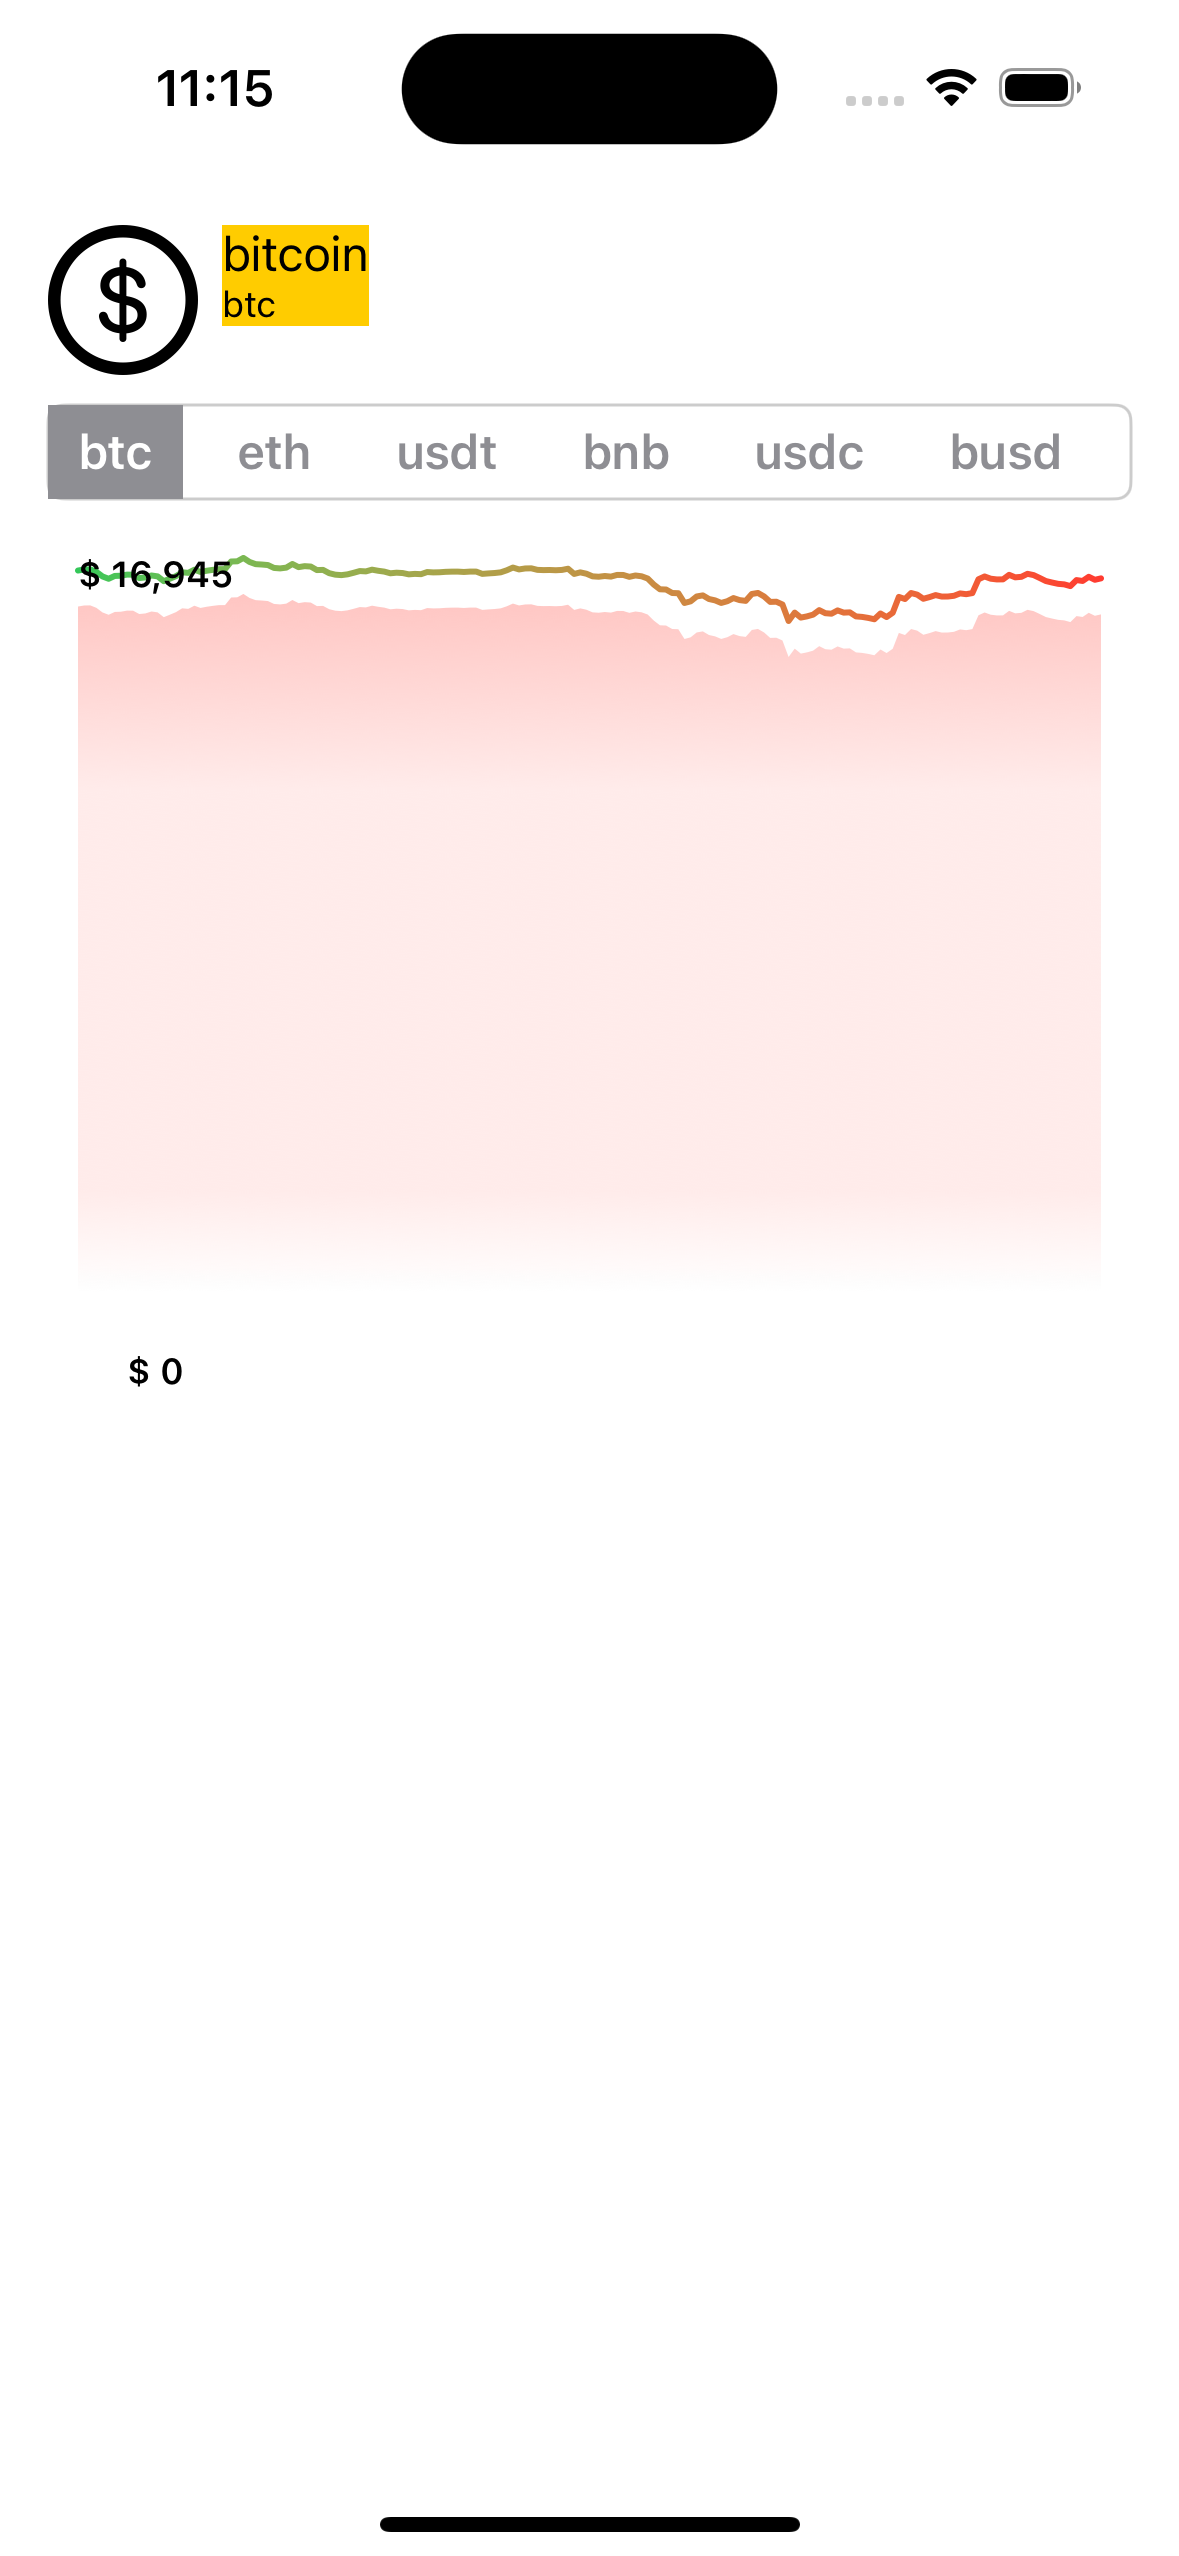
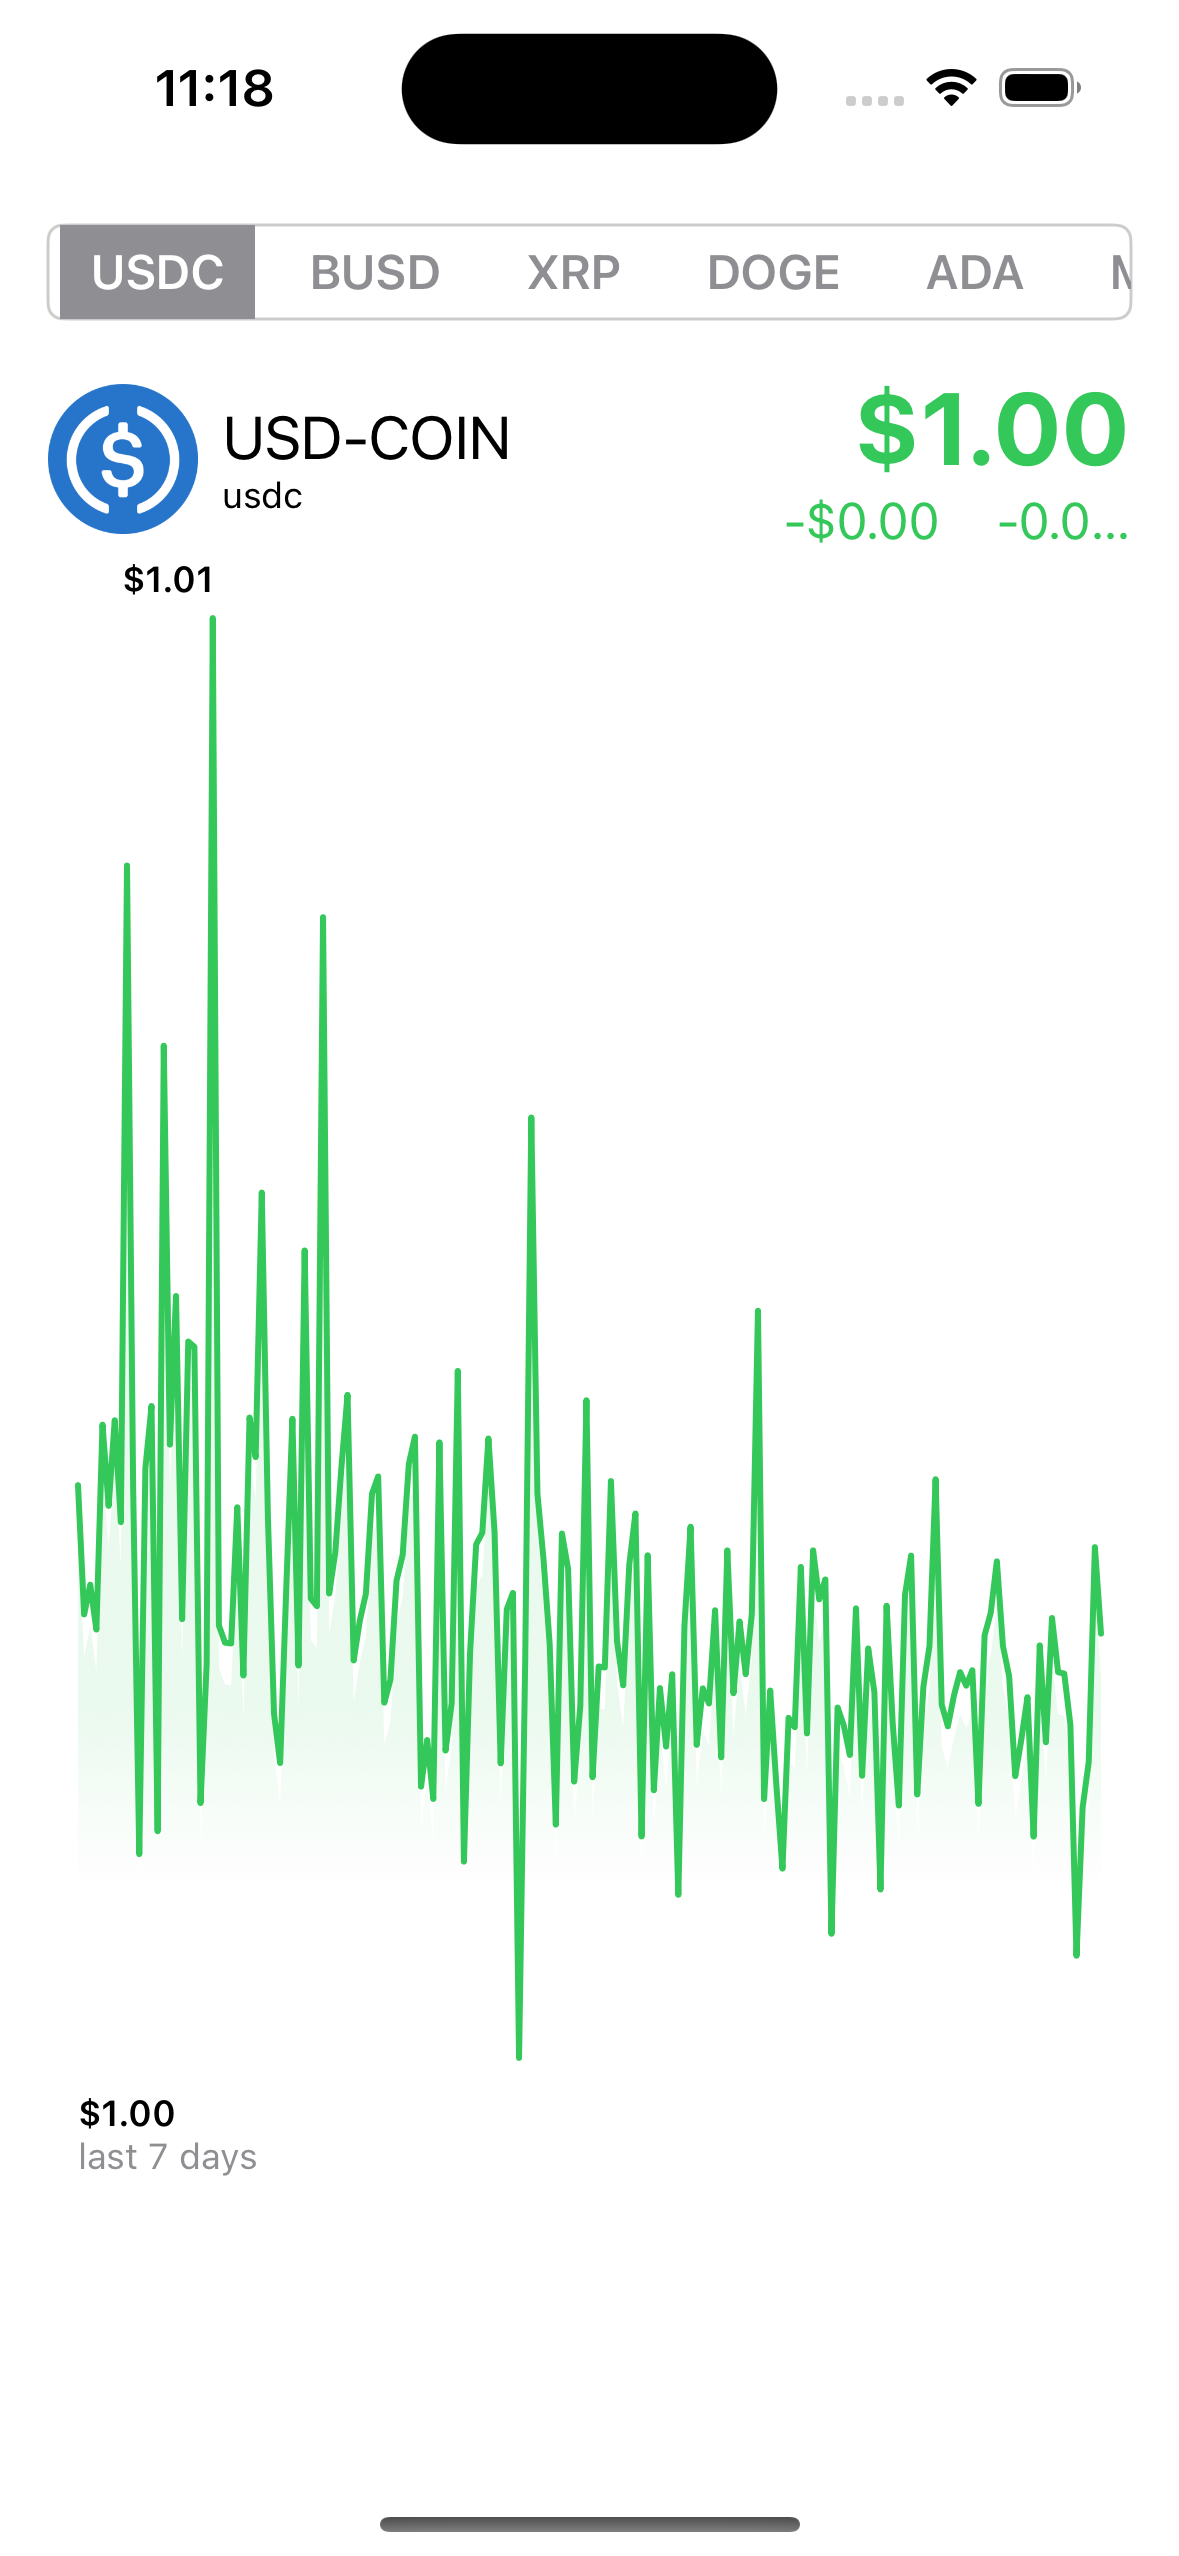
動畫完成 顏色根據帳跌改變(紅綠) 程式碼重構

diff --git a/LineGraph/LineGraph.swift b/LineGraph/LineGraph.swift
@@ -10,10 +10,12 @@ import SwiftUI
 struct LineGraph: View {
     // MARK: 定義狀態變數
 
-    var data: [Double]
-    @State private var currentPlot = ""
-    @State private var shouldShowPlot = false
-    @State private var offset: CGSize = .zero
+    var data: [Double] // 價位資料
+    var profit: Bool // 漲跌狀況，決定紅色或綠色
+    @State private var currentPlot = "" // 目前選中的價位
+    @State private var shouldShowPlot = false // 是否顯示細節指示器
+    @State private var offset: CGSize = .zero // 細節指示器的位置
+    @State private var graphProgress: CGFloat = 0 // 線段動畫進度
 
     var body: some View {
         GeometryReader { proxy in
@@ -29,6 +31,7 @@ struct LineGraph: View {
             let segmentHeight = size.height
             let maxValue = (data.max() ?? 0)
             let minValue = (data.min() ?? 0)
+            // 將資料轉換為CGPoint
             let points: [CGPoint] = data.enumerated().compactMap { item in
                 let x = segmentWidth * CGFloat(item.offset)
                 let y = segmentHeight * ((item.element - minValue) / (maxValue - minValue))
@@ -38,14 +41,14 @@ struct LineGraph: View {
             // MARK: 定義資料線段與背景
 
             ZStack {
-                Path { path in
-//                    path.move(to: CGPoint.zero)
-                    path.addLines(points)
-                }
-                .strokedPath(.init(lineWidth: 2, lineCap: .round, lineJoin: .round))
-                .fill(LinearGradient(colors: [.green, .red], startPoint: .leading, endPoint: .trailing))
+                // 漸層線段
+                AnimatedGraphPath(progress: graphProgress, points: points)
+                    .fill(profit ? .red : .green)
+                // .fill(LinearGradient(colors: [.green, .red], startPoint: .leading, endPoint: .trailing))
 
+                // 先畫出整個漸層，再根據線段裁剪顯示範圍
                 fillBG()
+                    .opacity(graphProgress)
                     .clipShape(
                         Path { path in
                             path.addLines(points)
@@ -53,44 +56,19 @@ struct LineGraph: View {
                             path.addLine(to: CGPoint(x: 0, y: size.height))
                         }
                     )
-                    .padding(.top, 12)
+                    .padding(.top, 14)
             }
 
-            // MARK: 定義浮動指示器，跟隨手指移動
-
-            // **關鍵** overlay的對齊設定要設為對齊左側&底部
-            // 因為overlay的尺寸跟上層(zstack)相同，如果不額外指定對齊，預設會是置中，這樣後續套用offset會用偏移
+            // 在線段上方放置一個浮動細節指示器，隨著手指點擊拖曳移動
+            // 對齊要設為左側&底部，因為overlay的尺寸跟上層(zstack)相同
+            // 如果不額外指定對齊，預設會是置中，這樣後續套用offset會用偏移
             .overlay(alignment: .bottomLeading) {
-                VStack(spacing: 0) {
-                    Text(currentPlot)
-                        .font(.caption.bold())
-                        .foregroundColor(.white)
-                        .padding(.horizontal, 6)
-                        .padding(.vertical, 4)
-                        .background(.gray, in: Capsule())
-                        // 如果滑鼠靠近螢幕邊緣，要將文字往畫面中間移動，否則會被切掉
-                        .offset(x: offset.width < 10 ? 20 : 0)
-                        .offset(x: offset.width > size.width - 10 ? -20 : 0)
-
-                    Rectangle()
-                        .fill(.gray)
-                        .frame(width: 1, height: 45)
-
-                    Circle()
-                        .fill(.gray)
-                        .frame(width: 16)
-                        .overlay {
-                            Circle()
-                                .fill(.white)
-                                .frame(width: 6)
-                        }
-                }
-                // 給予指示器一個固定尺寸，方便後續計算偏移量時，x軸置中，y軸對齊circle中心
-                .frame(width: 80, height: 80)
-                .opacity(shouldShowPlot ? 1 : 0)
-                .offset(offset)
-                // 讓指示器x軸置中(扣掉一半寬度 80/2=40)，y軸對齊circle中心(加上circle一半寬度 16/2=8)
-                .offset(x: -40, y: 8)
+                indicatorView()
+                    // 是否顯示指示器
+                    .opacity(shouldShowPlot ? 1 : 0)
+                    // 如果滑鼠靠近螢幕邊緣，要將文字往畫面中間移動，否則會被切掉
+                    .offset(x: offset.width < 10 ? 20 : 0)
+                    .offset(x: offset.width > size.width - 10 ? -20 : 0)
             }
             // 定義手勢感應區域
             .contentShape(Rectangle())
@@ -104,7 +82,7 @@ struct LineGraph: View {
                     var index = Int((tx / segmentWidth).rounded())
                     index = max(min(index, points.count - 1), 0)
                     // 更新顯示的文字
-                    currentPlot = "$ \(data[index])"
+                    currentPlot = data[index].convertToCurrency()
                     // 更新指示器的位置
                     withAnimation(.easeIn(duration: 0.1)) {
                         shouldShowPlot = true
@@ -115,31 +93,126 @@ struct LineGraph: View {
                     withAnimation {
                         shouldShowPlot = false
                     }
-                }
-            )
+                })
         }
-        // 顯示資料的最大&最小值
-        .overlay(content: {
-            VStack {
-                Text("$ \(Int(data.max() ?? 0))")
-                    .font(.caption.bold())
-                Spacer()
-                Text("$ \(Int(data.min() ?? 0))")
-                    .font(.caption.bold())
-            }
-            .frame(maxWidth: .infinity, alignment: .leading)
-        })
+        .overlay { labelView() }
         .padding(10)
+        .onAppear {
+            // 一進入畫面就開始繪製線段
+            DispatchQueue.main.asyncAfter(deadline: .now() + 0.1) {
+                withAnimation(.easeIn(duration: 1.2)) {
+                    graphProgress = 1
+                }
+            }
+        }
+        .onChange(of: data) { _ in
+            // 資料更新要重新畫出線段
+            // 但因為線段已經在畫面，就算data更新，progress也不會跟著更新，所以要先歸零，再重新開始動畫
+            graphProgress = 0
+            DispatchQueue.main.asyncAfter(deadline: .now() + 0.1) {
+                withAnimation(.easeIn(duration: 1.2)) {
+                    graphProgress = 1
+                }
+            }
+        }
     }
 
-    /// 繪製線段背景漸層
+    // 定義浮動細節指示器，跟隨手指移動
+    @ViewBuilder
+    func indicatorView() -> some View {
+        VStack(spacing: 0) {
+            // 顯示目前價位
+            Text(currentPlot)
+                .font(.caption.bold())
+                .foregroundColor(.white)
+                .padding(.horizontal, 6)
+                .padding(.vertical, 4)
+                .background(.gray, in: Capsule())
+
+            // 線段
+            Rectangle()
+                .fill(.gray)
+                .frame(width: 1, height: 45)
+
+            // 在線段上的原點
+            Circle()
+                .fill(.gray)
+                .frame(width: 16)
+                .overlay {
+                    Circle()
+                        .fill(.white)
+                        .frame(width: 6)
+                }
+        }
+        // 給予指示器一個固定尺寸，方便後續計算偏移量時，x軸置中，y軸對齊circle中心
+        .frame(width: 80, height: 80)
+
+        // 移動指示器到手指的位置
+        .offset(offset)
+        // 讓指示器x軸置中(扣掉一半寬度 80/2=40)，y軸對齊circle中心(加上circle一半寬度 16/2=8)
+        .offset(x: -40, y: 8)
+    }
+
+    // 顯示資料的最大&最小值
+    @ViewBuilder
+    func labelView() -> some View {
+        VStack {
+            let max = data.max() ?? 0
+            let min = data.min() ?? 0
+            // 最大值
+            Text(max.convertToCurrency())
+                .font(.caption.bold())
+                .offset(y: -20)
+
+            Spacer()
+
+            VStack(alignment: .leading) {
+                // 最小值
+                Text(min.convertToCurrency())
+                    .font(.caption.bold())
+                Text("last 7 days")
+                    .font(.caption)
+                    .foregroundColor(.gray)
+            }
+            .offset(y: 40)
+        }
+        .frame(maxWidth: .infinity, alignment: .leading)
+    }
+
+    /// 將線段封閉之後，根據漲跌狀況(紅、綠)，使用漸層繪製線段背景
     @ViewBuilder
     func fillBG() -> some View {
-        let c = Color.red
+        let c: Color = profit ? .red : .green
         let c1 = Array(repeating: c.opacity(0.1), count: 5)
         let c2 = Array(repeating: Color.clear, count: 2)
         let colors: [Color] = [c.opacity(0.3), c.opacity(0.2)] + c1 + c2
         LinearGradient(colors: colors, startPoint: .top, endPoint: .bottom)
+    }
+}
+
+// MARK: 建立一個自訂path的shape
+
+/// 根據傳入的頂點 (points) 畫出線段
+/// 且具有動畫屬性 (progress) 能控制畫線的進度
+struct AnimatedGraphPath: Shape {
+    var progress: CGFloat
+    var points: [CGPoint]
+
+    var animatableData: CGFloat {
+        get { progress }
+        set { progress = newValue }
+    }
+
+    func path(in rect: CGRect) -> Path {
+        return Path { path in
+            // 根據頂點將線段依次連起來
+            path.move(to: CGPoint.zero)
+            path.addLines(points)
+        }
+        // 根據動畫進度，回傳指定部分的路徑
+        .trimmedPath(from: 0, to: progress)
+        // 線段的寬度與樣式
+        .strokedPath(.init(lineWidth: 2, lineCap: .round, lineJoin: .round))
     }
 }
 

diff --git a/LineGraph/ContentView.swift b/LineGraph/ContentView.swift
@@ -127,7 +127,7 @@ struct ContentView: View {
 
     @ViewBuilder
     func graphView(coin: CoinModel)->some View {
-        LineGraph(data: coin.last_7days_price.price)
+        LineGraph(data: coin.last_7days_price.price, profit: coin.price_change_24h > 0)
             .frame(height: 500)
     }
 }

diff --git a/LineGraph/LineGraphApp.swift b/LineGraph/LineGraphApp.swift
@@ -12,7 +12,7 @@ struct LineGraphApp: App {
     var body: some Scene {
         WindowGroup {
             ContentView()
-                .preferredColorScheme(.dark)
+//                .preferredColorScheme(.dark)
         }
     }
 }

diff --git a/README.md b/README.md
@@ -71,3 +71,9 @@
   * 建立一個load方法，接收字串檔名，讀取json檔案，最後回傳自訂型別；可以作為資料型別的sample資料，方便離線測試
   * 建立DataProvider，實作ObservableObject，將資料曝露出來給View訂閱
     ** 提供一個fetch方法，可以接收不同的loader參數，將 __讀取遠端或是本機資料__ 透過loader注射進去，方便在preview中看到測試結果
+
+## 增加線段動畫
+  * 因為path無法套用動畫，所以要新增一個struct shape，然後自訂path
+  * 實作animatable參數，對應一個進度值，在withAnimation中操作這個進度值，來產生動畫
+  * path的繪製可以用trimmerPath來控制；shape則是用trim
+  
